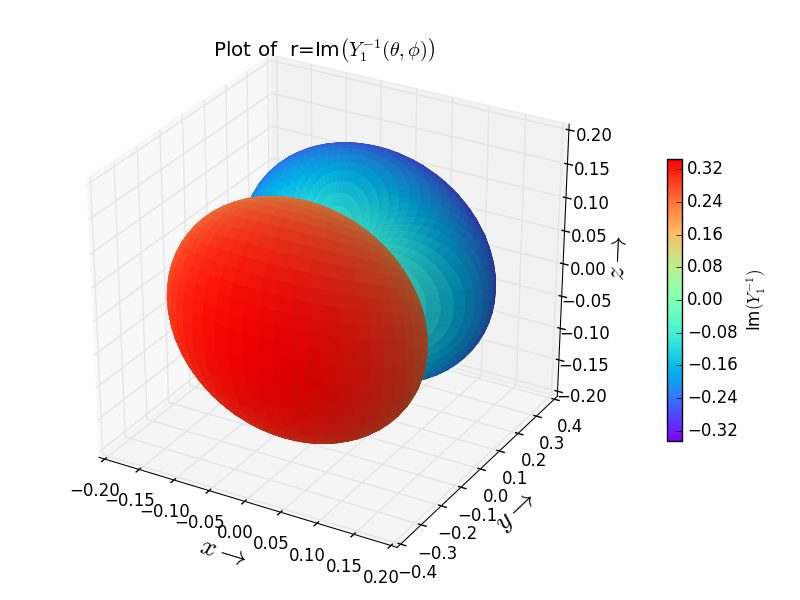
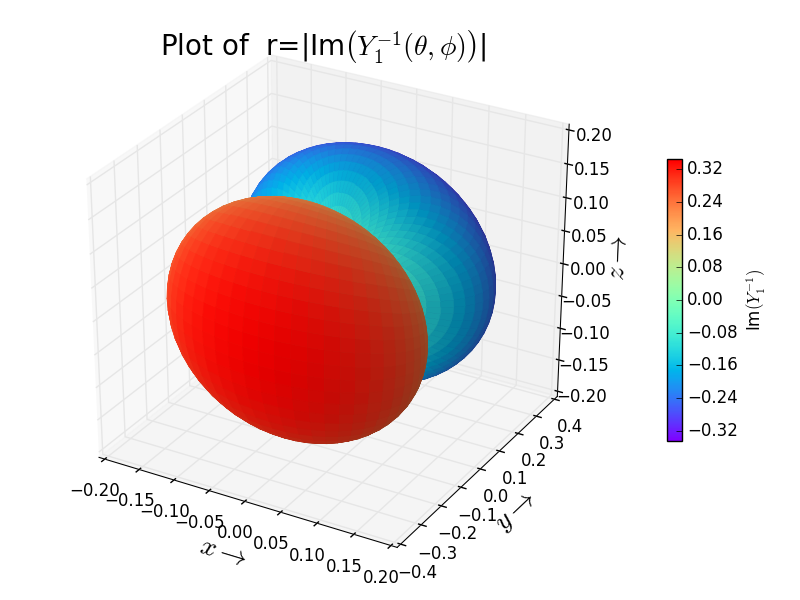
update figure title

Changed region(s): [[0.1875, 0.06, 0.625, 0.12]]

diff --git a/MSc/Sem2/QM2/spherical_harmonics.py b/MSc/Sem2/QM2/spherical_harmonics.py
@@ -71,7 +71,9 @@ for m in mm:
             ax.view_init(20)
 
         #ax.axis('off')
-        ax.set_title("Plot of  r="+phase+'$\left(Y_{%d}^{%d}(\\theta,\phi)\\right)$'%(l,m))
+        ax.set_title("Plot of  r=|"+phase+
+            '$\left(Y_{%d}^{%d}(\\theta,\phi)\\right)$|'%(l,m),
+            fontsize=20)
         fcolor=cm.ScalarMappable(cmap=plt.get_cmap('rainbow'))
         plot = ax.plot_surface(
             X, Y, Z, rstride=1, cstride=1, 
@@ -83,7 +85,8 @@ for m in mm:
         fig.tight_layout()
         print(l,m,phase)
         fcolor.set_array(Y_lm)
-        fig.colorbar(fcolor,shrink=.5,label=phase+'$(Y_{%d}^{%d})$'%(l,m))
+        fig.colorbar(fcolor,shrink=.5,
+            label=phase+'$(Y_{%d}^{%d})$'%(l,m))
         plt.savefig("%sY_%d%d.png"%(phase,l,m))
         #plt.show()
         """
